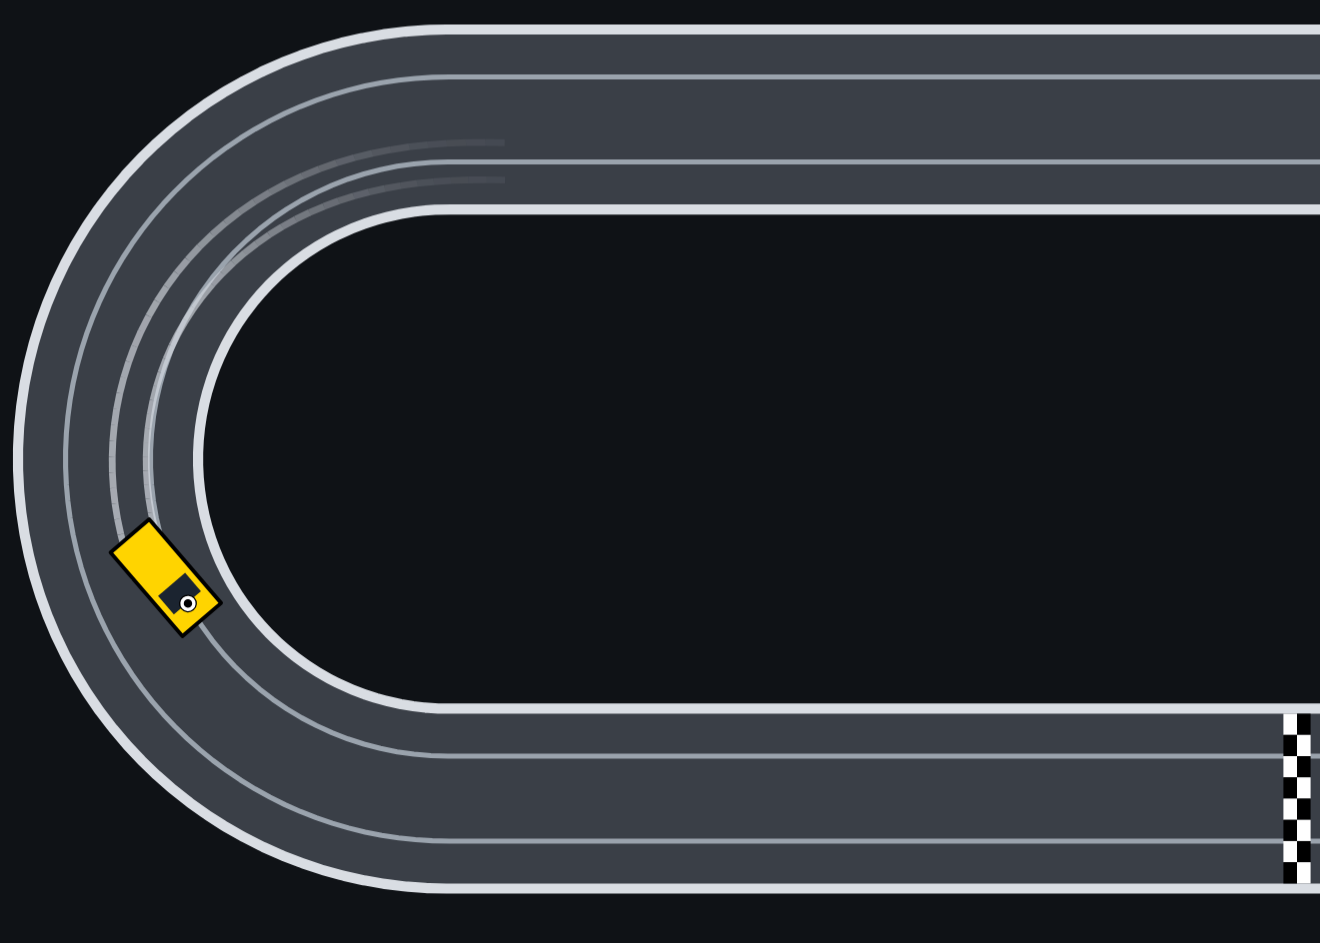
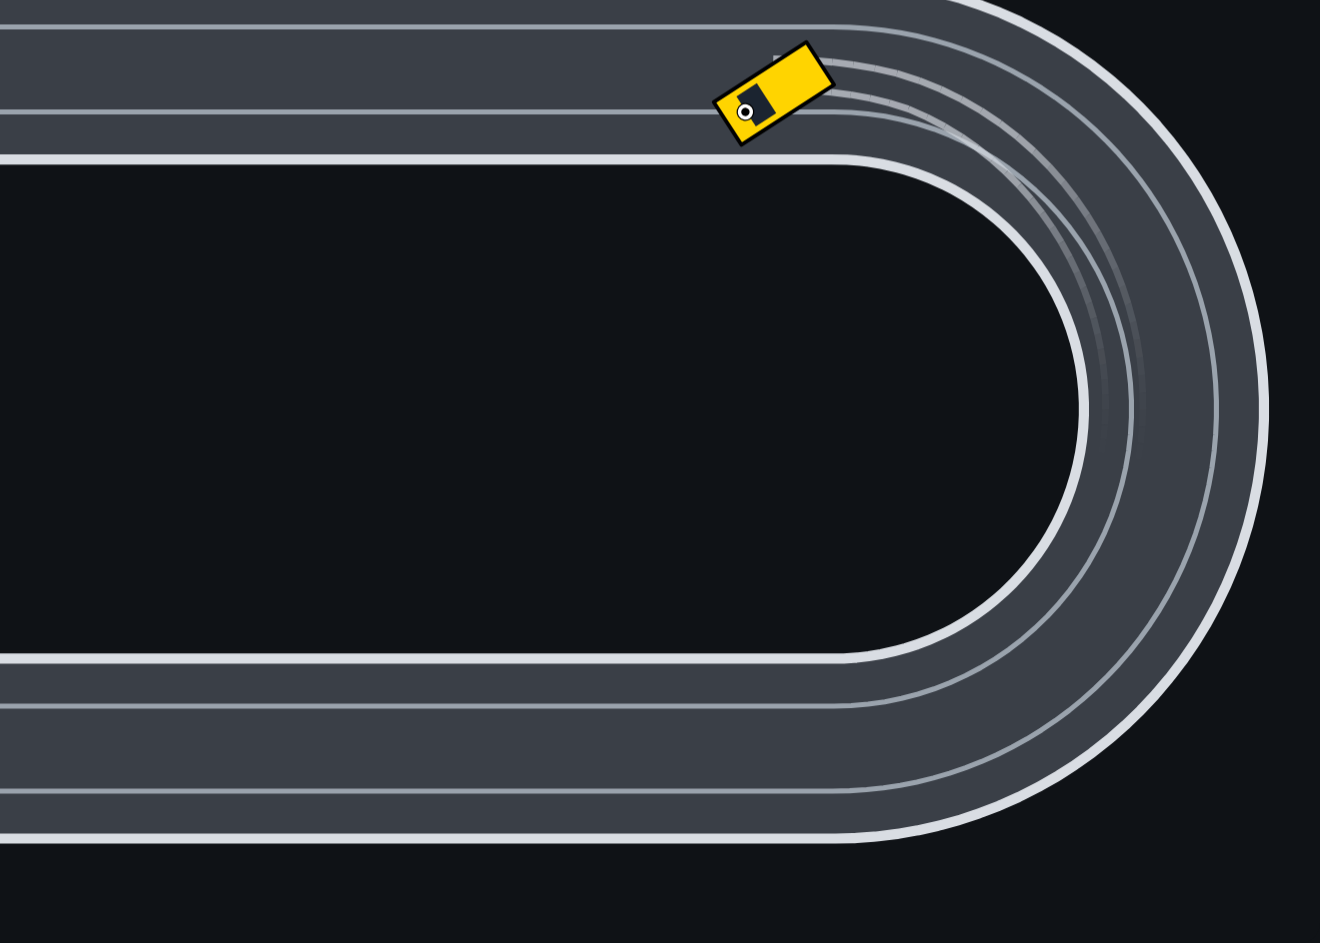
Replaces the screenshot with the car sliding out of a curve under full throttle
The new image shows the car leaving the curve with the throttle open, the body turned far across the lane and the tire marks of the slide behind it. The car is still on the track.

diff --git a/README.md b/README.md
@@ -2,7 +2,7 @@
 
 A slot car racing simulator that runs in your browser. Keep the throttle down through a curve and the tail of the car slides out, leaving tire marks on the track.
 
-![A yellow slot car sliding through a curve, with two tire marks behind it](docs/screenshot.png)
+![A yellow slot car coming out of a curve under full throttle, its tail swung far out and two tire marks behind it](docs/screenshot.png)
 
 ## Play it online
 
